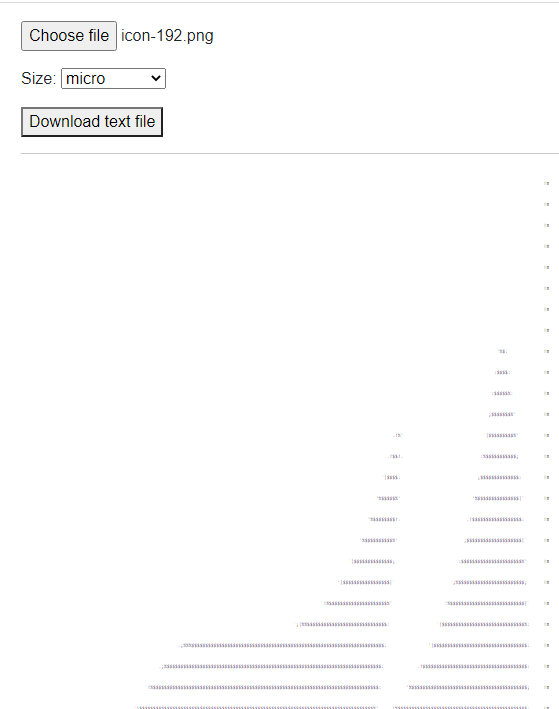
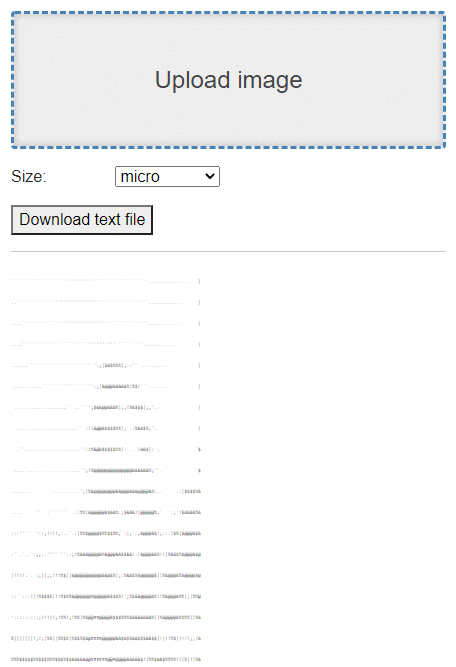
- support drag-drop of image files

diff --git a/asciify.ui.web/wwwroot/index.html b/asciify.ui.web/wwwroot/index.html
@@ -42,6 +42,7 @@
   <a class="dismiss">🗙</a>
 </div>
 <script src="_framework/blazor.webassembly.js"></script>
+<script src="_content/BlazorInputFile/inputfile.js"></script>
 </body>
 
 </html>

diff --git a/asciify.ui.web/Pages/Index.razor.cs b/asciify.ui.web/Pages/Index.razor.cs
@@ -12,11 +12,12 @@ using StaticDust;
 
 public sealed partial class Index
 {
-  private string selectedSize { get; set; }
-  private string _rendered { get; set; }
-
   [Inject]
   private IJSRuntime JSRuntime { get; set; }
+
+  private string selectedSize { get; set; }
+  private string _rendered { get; set; }
+  private bool IsFinishedEmbed { get; set; }
 
   protected override void OnInitialized()
   {
@@ -39,6 +40,9 @@ public sealed partial class Index
 
   private async Task LoadFile(InputFileChangeEventArgs e)
   {
+    IsFinishedEmbed = false;
+    StateHasChanged();
+
     var data = e.File.OpenReadStream();
     var ms = new MemoryStream();
     await data.CopyToAsync(ms);
@@ -56,6 +60,9 @@ public sealed partial class Index
     var size = AsciiPageSize.DefaultSizes.Single(x => x.Name == selectedSize);
     var html = CreateAsciiArt(img, size);
     _rendered = html;
+
+    IsFinishedEmbed = true;
+    StateHasChanged();
   }
 
   private async Task DownloadRender()
